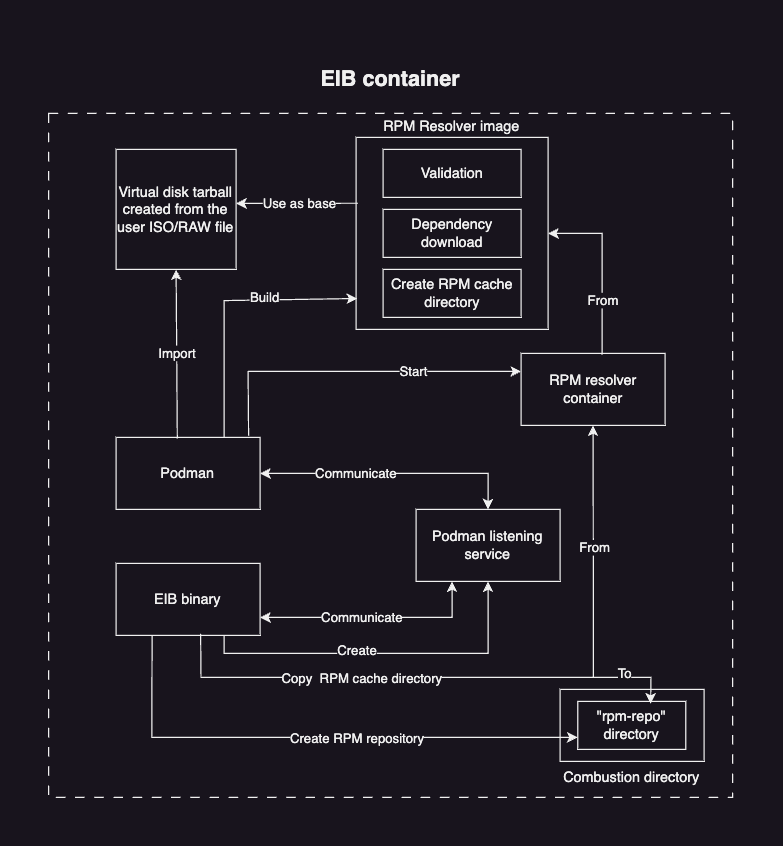
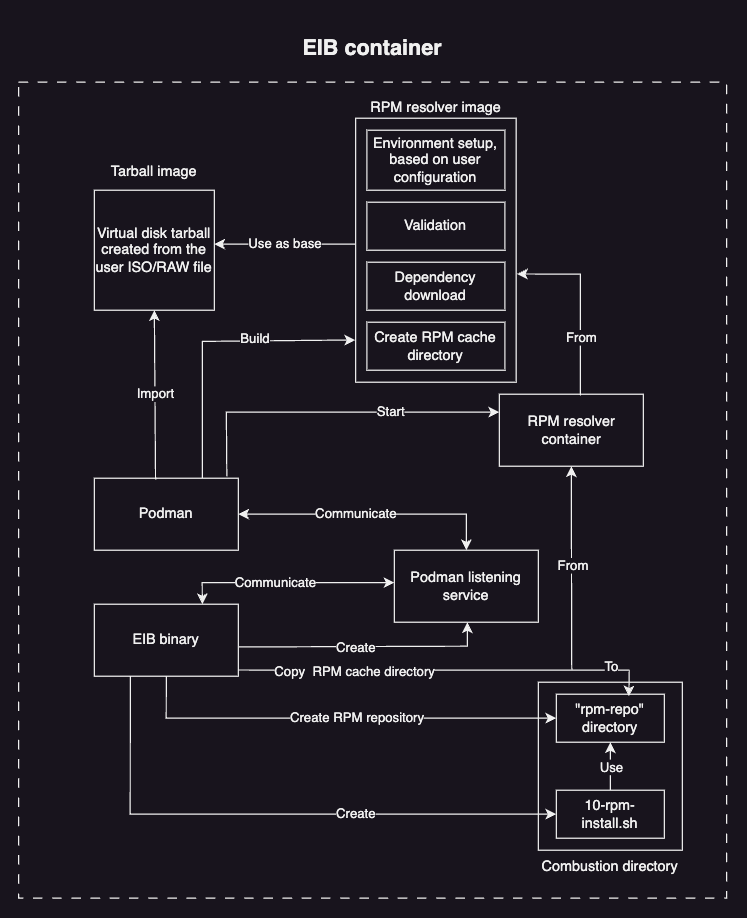
Update RPM doc

Changed region(s): [[0.1232, 0.0307, 0.9237, 0.9527]]

diff --git a/docs/installing-packages.md b/docs/installing-packages.md
@@ -1,38 +1,44 @@
 # Installing packages
-This documentation aims at explaining how a user can configure packages for installation and dependency resolution. For a deep dive on the architecture and workflow of EIB's RPM resolver, see the [RPM resolver architecture](rpm-resolver-architecture.md) documentation.
+This documentation aims at explaining how a user can configure packages for installation and dependency resolution. Furthermore it delves deeper into the **RPM resolution** process that EIB goes through so that it can prepare and install user defined pacakges. 
+
+Below you can find a table of contents for easier navigation through this doc:
+
+1. [Supported systems](#supported-systems)
+2. [Configure packages for installation](#configure-packages-for-installation)
+    * [Install packages through 'packageList'](#install-packages-through-packagelist)
+        * [Install a package from a third-party repo](#install-a-package-from-a-third-party-repo)
+        * [Install a package from SUSE's internal repositories](#install-a-package-from-suses-internal-repositories)
+    * [Side-load RPMs](#side-load-rpms)
+        * [RPM with dependency resolution from a third-party repository](#rpm-with-dependency-resolution-from-a-third-party-repository)
+        * [RPM with depdendency resolution from SUSE's internal repositories](#rpm-with-depdendency-resolution-from-suses-internal-repositories)
+    * [Installing unsigned packages](#installing-unsigned-packages)
+3. [Package installation workflow](#package-installation-workflow)
+    * [Running the EIB container](#running-the-eib-container)
+    * [Building the EIB image](#building-the-eib-image)
+        * [RPM resolution process](#rpm-resolution-process)    
+        * [Troubleshooting](#troubleshooting)
+    * [Booting the EIB image](#booting-the-eib-image)
 
 ## Supported systems
 The RPM package dependency resolution and installation has been tested on the following systems:  
-1. Ubuntu 22.04
-2. SLES 15-SP5
-3. openSUSE Tumbleweed 
-4. Fedora Linux
+1. [Ubuntu 22.04](https://releases.ubuntu.com/jammy/)
+2. [SLES 15-SP5](https://www.suse.com/download/sles/)
+3. [openSUSE Tumbleweed](https://get.opensuse.org/tumbleweed/)
+4. [Fedora Linux](https://fedoraproject.org/workstation/download)
 
-## Running the EIB container
-In order for EIB to resolve the dependencies for the packages that you provided, it starts a podman container within its container. To do this, the EIB container needs to be started with the adequate permissions.  
-
-In this case the `--privileged` needs to be provided to the standart EIB run command:
-```shell
-podman run --rm --privileged -it \
--v $IMAGE_DIR:/eib eib:dev /bin/eib \
--config-file $CONFIG_FILE.yaml \
--config-dir /eib \
--build-dir /eib/_build
-```
-
-> **_NOTE:_** Depending on the `cgroupVersion` that podman operates with, you might also need to run the command with `sudo` permissions. This is the case for `cgroupVersion: v1`, mainly because the `--privileged` option does not support non-root usage for this version. For `cgroupVersion: v2`, you can run the command without root permissions. In order to check the `cgroupVersion` that podman operates with, run this command: `podman info | grep cgroupVersion`.
-
-## Configuring packages for installation
+## Configure packages for installation
 You can configure packages for installation in the following ways:
 1. provide a `packageList` configuration under `operatingSystem.packages` in the EIB image configuration file
-2. create an `rpms` directory under EIB's configuration directory and provide local RPM files that you wish to be resolved and installed
+2. create a `rpms` directory under EIB's configuration directory and provide local RPM files that you wish to be resolved and installed
 
-### Installing packages through 'packageList'
-To install a package using the `packageList` at a minimum you must configure the following under `operatingSystem.packages`:
+### Install packages through 'packageList'
+To install a package using the `packageList` configuration, at a minimum you must configure the following under `operatingSystem.packages`:
 1. valid package names under `packageList`
 2. either an `additionalRepo` or a `registrationCode` provided
 
-#### Installing a package from a third-party repo
+Below you can find examples for the aforementioned use cases.
+
+#### Install a package from a third-party repo
 ```yaml
 operatingSystem:
   packages:
@@ -41,9 +47,9 @@ operatingSystem:
     additionalRepos:
       - url: https://download.opensuse.org/repositories/Kernel:/SLE15-SP5/pool
 ```
-> **_NOTE:_** Before adding any repositories under `additionalRepos`, make sure that they are signed with a valid GPG key. If unsigned repositories are added the EIB package resolution will fail.
+> **_NOTE:_** Before adding any repositories under `additionalRepos`, make sure that they are signed with a valid GPG key. Otherwise the EIB package resolution will fail.
 
-#### Installing a package from SUSE's internal repositories
+#### Install a package from SUSE's internal repositories
 ```yaml
 operatingSystem:
   packages:
@@ -52,11 +58,10 @@ operatingSystem:
     registrationCode: <your-reg-code>
 ```
 
-### Side-loading RPMs
-Sometimes you may want to install RPM files that are local to your machine.  
-You can do this by creating a directory called `rpms` under the EIB configuration directory and copying your local RPM files to this directory.
+### Side-load RPMs
+Sometimes you may want to install RPM files that are local to your machine. You can do this by creating a directory called `rpms` under `<eib-config-dir>/rpms` and copy your local RPM files to this directory.
 
-If your RPM is dependent on other packages, then you must provide either an entry under `additionalRepos` or you must provide the `registrationCode` property.
+If your RPMs are dependent on other packages, then you must provide either an entry under `additionalRepos` or a `registrationCode` property.
 
 > **_NOTE:_** All RPMs that will be side-loaded must have valid GPG signatures. The GPG keys used to sign the RPMs must be copied to the `gpg-keys` directory which must be created under `<eib-config-dir>/rpms`. If you try to install RPMs that are unsgined or have unrecognized GPG keys, the EIB package resolution will fail.
 
@@ -102,12 +107,89 @@ operatingSystem:
 ```
 
 ### Installing unsigned packages
-By default EIB does GPG validation for every additional repository and every side-loaded RPM. If you wish to use either unsigned additional repositories or unsinged RPMs you must provide the `noGPGCheck: true` property in the `packages` configuration, like so:
+By default EIB does GPG validation for every additional repository and side-loaded RPM. If you wish to use unsigned additional repositories and/or unsinged RPMs you must add the `noGPGCheck: true` property to the `packages` configuration in the EIB configration file, like so:
 ```yaml
 operatingSystem:
   packages:
     noGPGCheck: true
 ```
-By doing this **all** GPG validation will be disabled and you will be able to add unsigned additional repositories or RPMs.
+By doing this **all** GPG validation will be **disabled**.
 
-> **_NOTE:_** This property is intended for development use only. For production use-cases we encourage users to not disable EIB's GPG validation.
+> **_NOTE:_** This property is intended for development purposes only. For production use-cases we encourage users to not disable EIB's GPG validation.
+
+## Package installation workflow
+The package installation workflow can be separated in three logical parts:
+1. *Running the EIB container* - how to run the EIB container so that the **RPM resolution** has the needed permissions
+2. *Building the EIB image* - what happens during the **RPM resolution** logic
+3. *Booting the EIB image* - how are the packages actually installed once the EIB image boots for the first time
+
+### Running the EIB container
+![image](./images/rpm-eib-container-run.png)
+
+The package installation workflow begins with the user configuring packages and/or stand-alone RPMs that will be installed when the EIB image is booted. On how to to do a correct configuration, see [Configure packages for installation](#configure-packages-for-installation).
+
+After the desired configuration has been made, the user runs the EIB container with the [`--privileged`](https://docs.podman.io/en/latest/markdown/podman-run.1.html#privileged) option. By doing this, we ensure that EIB has the needed permissions to successfully run a Podman instance within its container. This is a crutial prerequisite for building a working EIB image with package installation configured (more on this in the next section). 
+
+An example of the command can be seen below:
+```shell
+podman run --rm --privileged -it \
+-v $IMAGE_DIR:/eib eib:dev /bin/eib \
+-config-file $CONFIG_FILE.yaml \
+-config-dir /eib \
+-build-dir /eib/_build
+```
+
+> **_NOTE:_** Depending on the `cgroupVersion` that podman operates with, you might also need to run the command with `root` permissions. This is the case for `cgroupVersion: v1`, mainly because the `--privileged` option does not support non-root usage for this version. For `cgroupVersion: v2`, you can run the command without `root` permissions. In order to check the `cgroupVersion` that podman operates with, run the command `podman info | grep cgroupVersion`.
+
+Once the EIB container has been successfully executed, it parses all the user provided configuration and begins the **RPM resolution** process. 
+
+### Building the EIB image
+Here EIB prepares the user configured packages for installation. This process is called **RPM resolution** and it includes:
+1. Validating that each provided package has a GPG signature or comes from a GPG signed RPM repository
+2. Resolving and downloading the dependencies for each configured package
+3. Creating a RPM repository consisting of the configured packages and their dependencies
+4. Configure the usage of this repositry for package installation during the **combustion** phase of the EIB image boot
+
+Below you can find a more detailed description of EIB's **RPM resolution** process. 
+
+#### RPM resolution process
+![image](./images/rpm-resolver-architecture.png)
+
+EIB mainly utilizes Podman's functionality to setup the environment needed for the **RPM resolution** process. In order to communicate with Podman, EIB first creates a [listening service](https://docs.podman.io/en/latest/markdown/podman-system-service.1.html) that will faciliate the communication between EIB and Podman. From here onwards, asume that any Podman related operation that EIB does goes through the **listening service** first.
+
+Once EIB establishes communication with Podman, it parses the user configured ISO/RAW file and converts it to a Podman importable **virtual disk tarball**. This tarball is [imported](https://docs.podman.io/en/stable/markdown/podman-import.1.html) as an image in Podman. 
+
+EIB then proceeds to build the **RPM resolver** image using the **tarball image** as a base. This procedure ensures that the validation/resolution of any packages that are configured for installation will be as close to the desired user environment as possible.
+
+All the RPM resolution logic is done during the build of the **RPM resolver** image. This includes, but is not limited to:
+1. Connecting to SUSE's internal RPM repositories, if configured by the user through `operatingSystem.packages.registrationCode`
+2. Importing any GPG keys provided by the user under `<eib-config-dir>/rpms/gpg-keys`
+3. Validating any RPM files provided by the user under `<eib-config-dir>/rpms`
+4. Adding and validating any third-party RPM repositories, if configured by the user through `operatingSystem.packages.additionalRepos`
+5. Creating a **RPM cache directory** and downloading the dependencies for all configured packages and side-loaded RPMs to it.
+
+After a successful image build, EIB starts a container from the newly built image and copies the aforementioned **RPM cache directory** to the **combustion** directory located in the EIB container. This cache directory is then converted to a ready to use RPM repository by EIB.
+
+The final step in the EIB **RPM resolution** process is to create a  **combustion script** which uses the aforementioned RPM repository to install the user configured packages during the EIB image combustion phase.
+
+#### Troubleshooting
+When troubleshooting the **RPM resolution** process, it is beneficial to look at the following files/directories inside of the EIB build directory:
+1. `eib-build.log` - general logs for the whole EIB image build process
+2. `podman-image-build.log` - logs for the build of the EIB resolver image. If missing, but the `resolver-image-build` directory is present, this means that there is a problem in the configuration of the `resolver-image-build` directory
+3. `podman-system-service.log` - logs for the Podman listening service
+4. `resolver-image-build` directory - build context for the resolver image. Make sure that the `Dockerfile` holds correct data. When installing side-loaded RPMs, make sure that the `rpms` and `gpg-keys` directories are present in the `resolver-image-build` directory
+5. `resolver-base-image` direcotry - contains resources related to the creation of the **virtual disk tarball** archive. If this directory exists, this means that a problem has been encountered while EIB was trying to import the **tarball image**
+6. `prepare-base.log` - logs related to the creation of the **virtual disk tarball**
+7. `createrepo.log` - logs related to converting the **RPM cache directory** to a **RPM repository**
+8. `combustion/rpm-repo` directory - the **RPM repository**; should hold the desired RPMs for installation and their dependencies
+9. `combustion/10-rpm-install.sh` - script that will be executed during the **combustion** phase
+
+### Booting the EIB image
+During the combustion phase of the EIB image boot, as mentioned above, both the **RPM repository** and **RPM combustion script** will be present in the combustion [configuration directory](https://github.com/openSUSE/combustion?tab=readme-ov-file#combustion) respectively under `/dev/shm/combustion/config/10-rpm-install.sh` and `/dev/shm/combustion/config/rpm-repo`.
+
+The root combustion script then calls the `10-rpm-install.sh` script, which does the following:
+1. Adds the `rpm-repo` directory as a local RPM repository to it package manager (`zypper`)
+2. Installs the desired packages from the newly added `rpm-repo` RPM repository (`zypper in -r`)
+3. Once all packages have been installed it removes the `rpm-repo` from the package manager (`zypper rr`)
+
+The successful execution of the `10-rpm-install.sh` script indicates that all packages have been installed on the operating system. 
